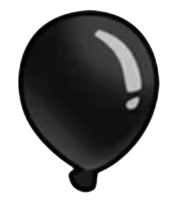
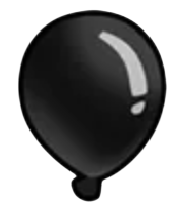
chore: 설정 팝업용 아이콘 리소스 추가 및 EditorScene 확인용 코드 정리
1. Resource/Sprite/nukki 폴더에 재개/리플레이/자동진행/음악/효과음/닫기(x) 개별 아이콘 PNG를 추가하고, GameAssets::Load에서 res.LoadImage로 프리로드 등록해 GameSceneUI 등에서 res.GetImage로 바로 꺼내 쓸 수 있게 함.
2. shared_sheet.png/xml을 최신 버전으로 교체함 — 기존 아틀라스에 없던 resume/music/sound/auto_start_icon/paused_restart_icon 등 아이콘이 새로 추가된 시트로 갱신.
3. Black.png 용량을 줄여 교체함(19506 -> 15208 bytes).
4. EditorScene에 shared_sheet/nukki 이미지를 미리 로드해두는 멤버를 추가하고, Render()에 새로 추가된 스프라이트들을 화면에 임시로 늘어놓고 눈으로 확인하는 디버그용 그리기 코드를 추가함(저격원숭이 파츠 확인 코드 주석도 함께 정리).

diff --git a/Client/Scene/EditorScene.cpp b/Client/Scene/EditorScene.cpp
@@ -16,6 +16,16 @@ void EditorScene::Init(Graphic& graphic)
 
 	_upgradeIconsImg = &res.GetImage(L"Resource\\Sprite\\upgrade_icons.png");
 	_upgradeIconsSprite = &res.GetAtlas(L"Resource\\Sprite\\upgrade_icons.xml");
+
+	_sharedSheetImg = &res.GetImage(L"Resource\\Sprite\\shared_sheet.png");
+	_sharedSheetSprite = &res.GetAtlas(L"Resource\\Sprite\\shared_sheet.xml");
+
+	_nukkiAutoplayImg = &res.GetImage(L"Resource\\Sprite\\nukki\\autoplay.png");
+	_nukkiMusicImg = &res.GetImage(L"Resource\\Sprite\\nukki\\music.png");
+	_nukkiReplayImg = &res.GetImage(L"Resource\\Sprite\\nukki\\replay.png");
+	_nukkiResumeImg = &res.GetImage(L"Resource\\Sprite\\nukki\\resume.png");
+	_nukkiSfxImg = &res.GetImage(L"Resource\\Sprite\\nukki\\sfx.png");
+	_nukkiXImg = &res.GetImage(L"Resource\\Sprite\\nukki\\x.png");
 }
 
 void EditorScene::Cleanup()
@@ -50,12 +60,12 @@ void EditorScene::Render(Graphic& graphic)
 	// upgrade_box_buy
 	// upgrade_box_cant
 	// tower_thumbs_box
-	if (const CellInfo* cell = _hudSprite->GetCell("upgrade_box_buy"))
+	if (const CellInfo* cell = _hudSprite->GetCell("tower_thumbs_box"))
 	{
 		_hudImg->DrawSprite(graphic, 300.0f, 400.0f, *cell, 1.0f, 0.0f);
 	}
 
-	if (const CellInfo* cell = _hudSprite->GetCell("upgrade_box_cant"))
+	if (const CellInfo* cell = _hudSprite->GetCell("tower_profile_pic_box"))
 	{
 		_hudImg->DrawSprite(graphic, 300.0f, 100.0f, *cell, 1.0f, 0.0f);
 	}
@@ -114,29 +124,29 @@ void EditorScene::Render(Graphic& graphic)
 	//	_inGameBg->DrawSprite(graphic, 600.0f, 300.0f, *cell, 1.0f, 0.0f);
 	//}
 
-	////// 저격총 원숭이 얘는 틴트 기능 넣어야함
-	////if (const CellInfo* cell = _sprite->GetCell("sniper_goggles"))
-	////{
-	////	_inGameBg->DrawSprite(graphic, 100.0f, 500.0f, *cell, 1.0f, 0.0f);
-	////}
-	//if (const CellInfo* cell = _sprite->GetCell("sniper_basic_rifle_muzzle"))
+	//// 저격총 원숭이 얘는 틴트 기능 넣어야함
+	//if (const CellInfo* cell = _sprite->GetCell("sniper_goggles"))
+	//{
+	//	_inGameBg->DrawSprite(graphic, 100.0f, 500.0f, *cell, 1.0f, 0.0f);
+	//}
+	if (const CellInfo* cell = _sprite->GetCell("sniper_full_metal_jacket"))
+	{
+		_inGameBg->DrawSprite(graphic, 200.0f, 500.0f, *cell, 1.0f, 0.0f);
+	}
+	// sniper_laser
+	// sniper_deadly_precision
+	// sniper_semi_auto
+	// sniper_full_metal_jacket
+
+	//if (const CellInfo* cell = _sprite->GetCell("sniper_cripple_moab"))
 	//{
 	//	_inGameBg->DrawSprite(graphic, 200.0f, 500.0f, *cell, 1.0f, 0.0f);
 	//}
-	//// sniper_laser
-	//// sniper_deadly_precision
-	//// sniper_semi_auto
-	//// sniper_full_metal_jacket
 
-	////if (const CellInfo* cell = _sprite->GetCell("sniper_cripple_moab"))
-	////{
-	////	_inGameBg->DrawSprite(graphic, 200.0f, 500.0f, *cell, 1.0f, 0.0f);
-	////}
-
-	//if (const CellInfo* cell = _sprite->GetCell("sniper_green_hat"))
-	//{
-	//	_inGameBg->DrawSprite(graphic, 300.0f, 500.0f, *cell, 1.0f, 0.0f);
-	//}
+	if (const CellInfo* cell = _sprite->GetCell("sniper_green_hat"))
+	{
+		_inGameBg->DrawSprite(graphic, 300.0f, 500.0f, *cell, 1.0f, 0.0f);
+	}
 
 
 	//// 저격총 애니메이션
@@ -467,5 +477,30 @@ void EditorScene::Render(Graphic& graphic)
 
 	//ResourceManager::GetInstance().GetImage(L"restart_button_baked").Draw(graphic, 1650.0f, 200.0f, 1.0f, 0.0f);
 
+	// shared_sheet 아이콘 확인용 (임시)
+	auto drawSharedIcon = [&](const char* cellName, float x, float y)
+		{
+			if (const CellInfo* cell = _sharedSheetSprite->GetCell(cellName))
+			{
+				_sharedSheetImg->DrawSprite(graphic, x, y, *cell, 1.0f, 0.0f);
+			}
+		};
+
+	drawSharedIcon("resume", 100.0f, 100.0f);
+	drawSharedIcon("double_mm_icon_small", 200.0f, 100.0f);
+	drawSharedIcon("sound", 300.0f, 100.0f);
+	drawSharedIcon("info", 400.0f, 100.0f);
+	drawSharedIcon("home", 500.0f, 100.0f);
+	drawSharedIcon("music", 600.0f, 100.0f);
+	drawSharedIcon("stroke", 700.0f, 100.0f);
+	drawSharedIcon("load_icon_shared", 800.0f, 100.0f);
+
+	// nukki 아이콘 확인용 (임시, 아틀라스 없이 낱개 이미지)
+	_nukkiAutoplayImg->Draw(graphic, 100.0f, 200.0f, 1.0f, 0.0f);
+	_nukkiMusicImg->Draw(graphic, 200.0f, 200.0f, 1.0f, 0.0f);
+	_nukkiReplayImg->Draw(graphic, 300.0f, 200.0f, 1.0f, 0.0f);
+	_nukkiResumeImg->Draw(graphic, 400.0f, 200.0f, 1.0f, 0.0f);
+	_nukkiSfxImg->Draw(graphic, 500.0f, 200.0f, 1.0f, 0.0f);
+	_nukkiXImg->Draw(graphic, 600.0f, 200.0f, 0.25f, 0.0f);
 }
 

diff --git a/Client/Core/GameAssets.cpp b/Client/Core/GameAssets.cpp
@@ -25,6 +25,16 @@ void GameAssets::Load(Graphic& graphic)
 	res.LoadImage(graphic, L"Resource\\Sprite\\upgrade_icons.png");
 	res.LoadAtlas(L"Resource\\Sprite\\upgrade_icons.xml");
 
+	res.LoadImage(graphic, L"Resource\\Sprite\\shared_sheet.png");
+	res.LoadAtlas(L"Resource\\Sprite\\shared_sheet.xml");
+
+	res.LoadImage(graphic, L"Resource\\Sprite\\nukki\\autoplay.png");
+	res.LoadImage(graphic, L"Resource\\Sprite\\nukki\\music.png");
+	res.LoadImage(graphic, L"Resource\\Sprite\\nukki\\replay.png");
+	res.LoadImage(graphic, L"Resource\\Sprite\\nukki\\resume.png");
+	res.LoadImage(graphic, L"Resource\\Sprite\\nukki\\sfx.png");
+	res.LoadImage(graphic, L"Resource\\Sprite\\nukki\\x.png");
+
 	res.LoadImage(graphic, L"Resource\\Red.png");
 	res.LoadImage(graphic, L"Resource\\Blue.png");
 	res.LoadImage(graphic, L"Resource\\Green.png");

diff --git a/Client/Scene/EditorScene.h b/Client/Scene/EditorScene.h
@@ -28,5 +28,16 @@ private :
 
 	Image* _upgradeIconsImg = nullptr;      // upgrade_icons.png
 	SpriteAtlas* _upgradeIconsSprite = nullptr; // upgrade_icons.xml
+
+	Image* _sharedSheetImg = nullptr;      // shared_sheet.png
+	SpriteAtlas* _sharedSheetSprite = nullptr; // shared_sheet.xml
+
+	// Resource/Sprite/nukki/ 개별 아이콘(아틀라스 없이 낱개 PNG)
+	Image* _nukkiAutoplayImg = nullptr;
+	Image* _nukkiMusicImg = nullptr;
+	Image* _nukkiReplayImg = nullptr;
+	Image* _nukkiResumeImg = nullptr;
+	Image* _nukkiSfxImg = nullptr;
+	Image* _nukkiXImg = nullptr;
 };
 
